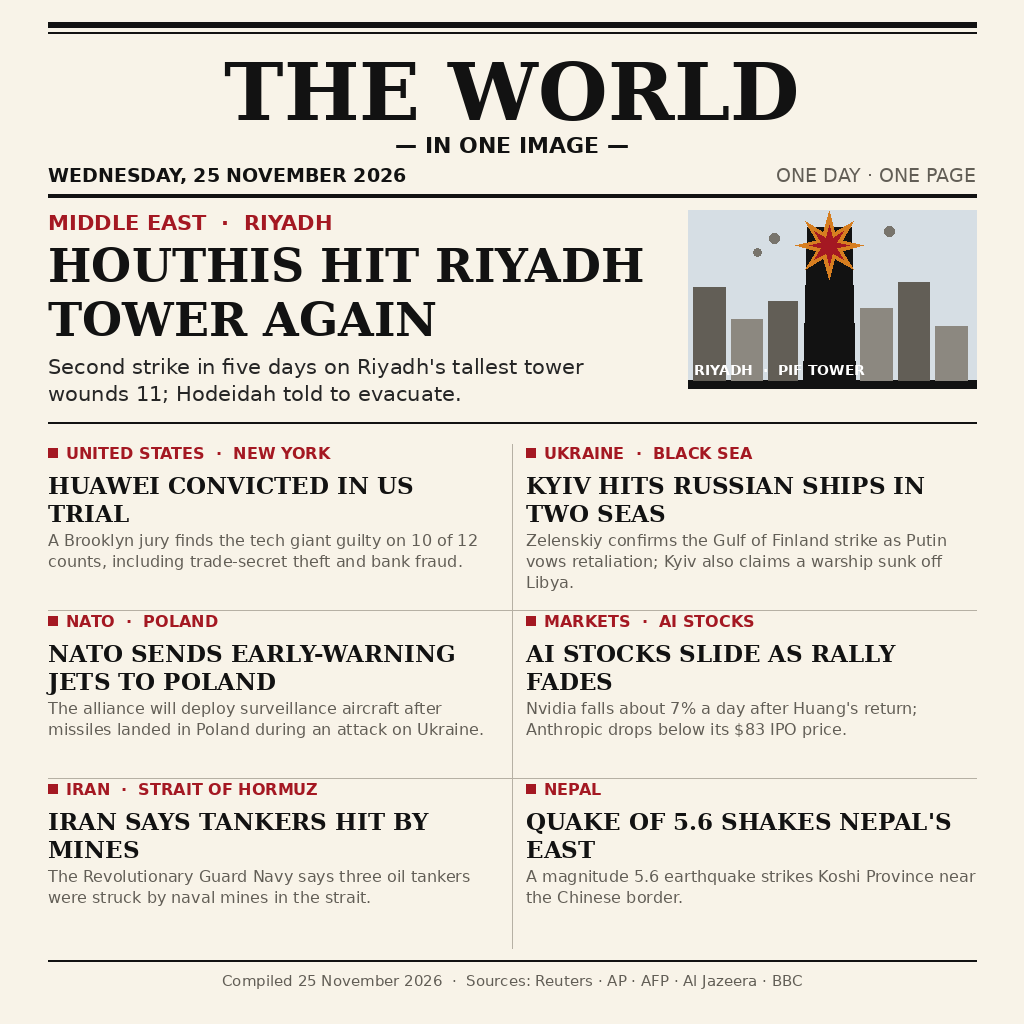
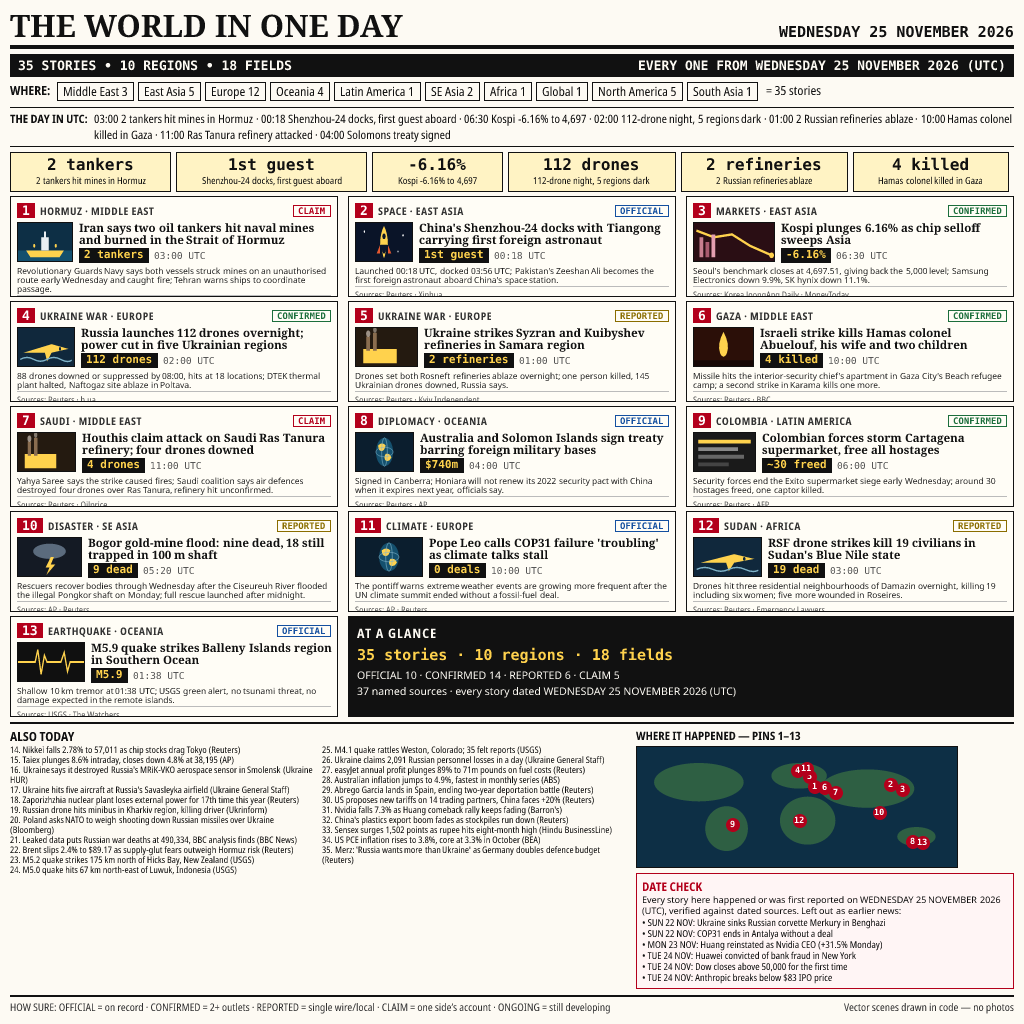
v2: winner-template rebuild — 35 dated stories, 13 drawn cards, UTC timeline, pin map, date-check strip

diff --git a/main.ts b/main.ts
@@ -3,9 +3,10 @@
 // Copies the prebuilt entry.png into the output directory and checks it.
 // Pure Node 22, standard library only, no network, no child processes.
 // The grader runs this as `node main.ts` with MAKEFUN_OUTPUT_DIR set to
-// a writable /output; the image itself was drawn by generate.py (kept in
-// this repository as the artwork's source) and ships here as a static
-// file, so grading needs no Python at all.
+// a writable /output; the v2 image was drawn by our Satori-based
+// news-toolkit and ships here as a static file, so grading needs no
+// Python at all (generate.py, the v1 artwork's source, is kept in this
+// repository for reference only).
 import { createHash } from "node:crypto";
 import { copyFileSync, existsSync, mkdirSync, readFileSync } from "node:fs";
 import { dirname, join } from "node:path";

diff --git a/README.md b/README.md
@@ -4,31 +4,25 @@
 [![rank](https://make.fun/badge/news-image-20261125/dzatm/makefun-news-20261125/rank.svg)](https://make.fun/bounty/news-image-20261125/leaderboard?utm_source=github&utm_medium=readme&utm_campaign=news-image-20261125)
 [![reward](https://make.fun/badge/news-image-20261125/dzatm/makefun-news-20261125/reward.svg)](https://make.fun/bounty/news-image-20261125?utm_source=github&utm_medium=readme&utm_campaign=news-image-20261125)
 
-One image that sums up 25 November 2026's world news. A Houthi strike hits Riyadh's tallest tower for the second time in five days, wounding 11, leading a page that also carries Huawei's conviction in a US court, Ukraine hitting Russian ships in two seas, NATO sending early-warning jets to Poland, AI stocks sliding, tankers reportedly mined in the Strait of Hormuz, and a 5.6 quake in Nepal.
+One image that sums up Wednesday 25 November 2026's world news — **v2, rebuilt on the winner template**: 35 stories from 10 regions across 18 fields, every one dated to that Wednesday (UTC). Iran says two oil tankers hit naval mines and burned in the Strait of Hormuz (CLAIM, Reuters/IRNA), leading a page that also carries China's Shenzhou-24 docking with the first foreign astronaut, a 112-drone night over Ukraine, refineries ablaze in Samara, an Israeli strike killing a Hamas colonel in Gaza, Asia's chip selloff (Kospi −6.16%), and a Bogor gold-mine flood that left nine dead and 18 trapped.
 
-## The seven stories
+## What's on the page
 
-1. **Houthis hit Riyadh tower again** — second strike in five days on the PIF Tower wounds 11.
-2. **Huawei convicted in US trial** — guilty on 10 of 12 counts, including trade-secret theft and bank fraud.
-3. **Kyiv hits Russian ships in two seas** — Zelenskiy confirms the Gulf of Finland strike; a warship is claimed sunk off Libya.
-4. **NATO sends early-warning jets to Poland** — after missiles landed in Poland during an attack on Ukraine.
-5. **AI stocks slide as rally fades** — Nvidia falls about 7%; Anthropic drops below its $83 IPO price.
-6. **Iran says tankers hit by mines** — three oil tankers reportedly struck in the Strait of Hormuz.
-7. **Quake of 5.6 shakes Nepal's east** — Koshi Province, near the Chinese border.
+- **13 numbered feature cards**, each with a drawn vector scene, a key-figure chip, a confidence label (OFFICIAL / CONFIRMED / REPORTED / CLAIM), and two named sources.
+- **22 one-line briefs** ("ALSO TODAY", stories 14–35).
+- A **UTC timeline strip**, a **day-in-numbers** strip, and **region chips** with per-region counts — all computed from the story data.
+- A **world pin map** (pins 1–13) and a **DATE CHECK** strip listing the earlier-day stories deliberately left out (22 Nov Ukraine corvette + COP31; 23 Nov Huang; 24 Nov Huawei, Dow 50k, Anthropic IPO).
+- A methodology footer explaining the confidence labels.
 
 ## Run it
 
-```sh
-python3 generate.py
-```
-
-That writes `entry.png` (1024×1024), a front page called "THE WORLD — IN ONE IMAGE". Running it three times produces a byte-identical file. `main.ts` copies the image into the grader's output directory and verifies it (PNG signature, 1024×1024, under 1 MiB, sha256):
+`entry.png` (1024×1024) ships prebuilt. `main.ts` copies it into the grader's output directory and verifies it (PNG signature, 1024×1024, under 1 MiB, sha256):
 
 ```sh
 mkdir -p out && MAKEFUN_OUTPUT_DIR=out node main.ts
 ```
 
-`generate.py` is the artwork's source (Pillow + DejaVu fonts, deterministic); `main.ts` is pure Node 22, standard library only, and never runs Python.
+`main.ts` is pure Node 22, standard library only, and never runs Python. The v2 artwork was rendered deterministically by our own Satori-based news-toolkit from a 35-story JSON (rendering twice produces a byte-identical file); `generate.py` is kept in this repository as the v1 artwork's source.
 
 ---
 
